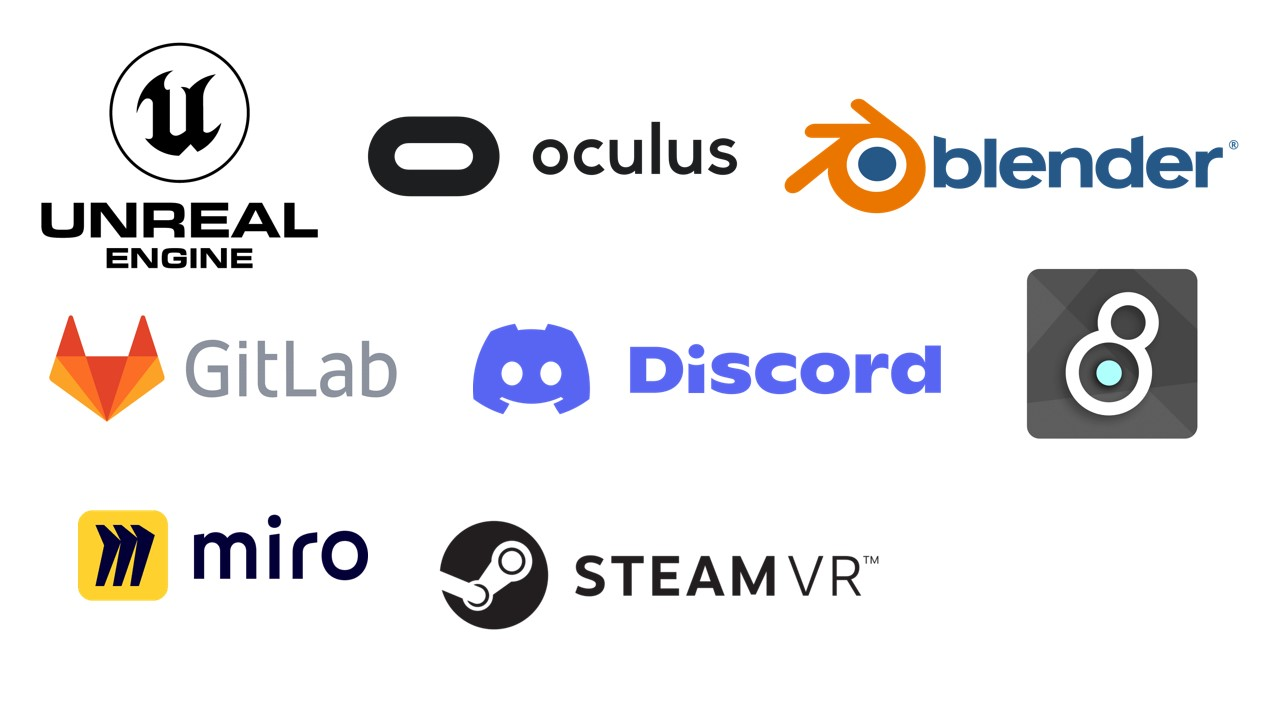
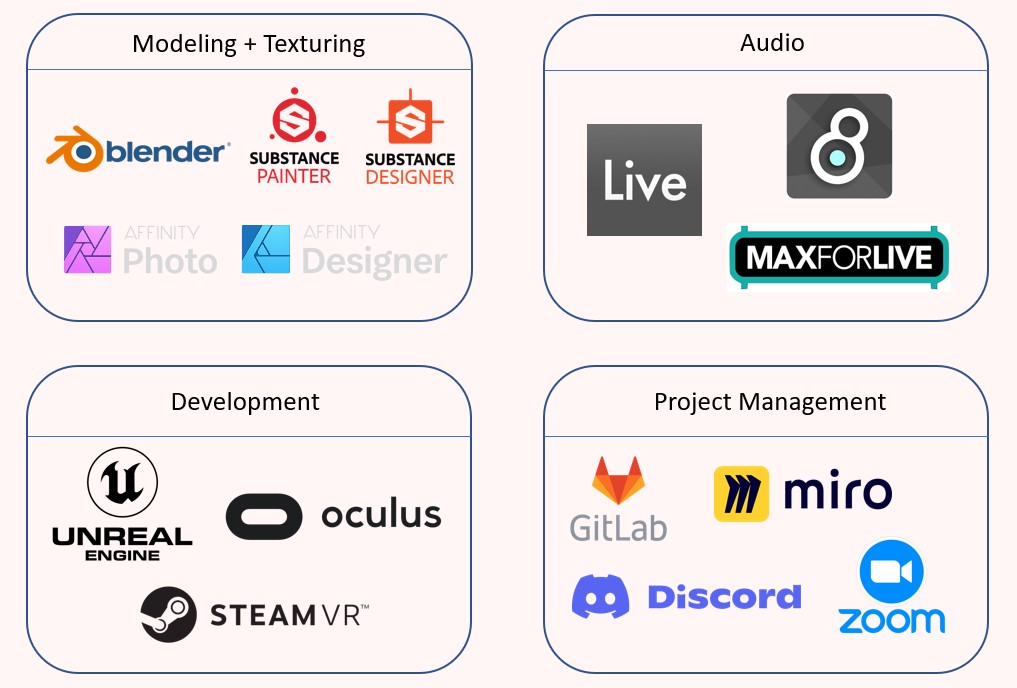
added information for website

diff --git a/content/ss21/master/m2-something-unreal/_tech_stack.md b/content/ss21/master/m2-something-unreal/_tech_stack.md
@@ -6,42 +6,55 @@ weight = 3
 {{<image src="tech-stack.jpg" alt="tech stack">}}
 
 {{<section title="Development">}}
-* Unreal Engine 4
-* Oculus
-* SteamVR
+* <strong>Unreal Engine 4</strong><br>
+Unreal Engine 4 was our main tool.<br> We built our project and put all small parts together as one.
+* <strong>Oculus</strong><br>
+We developed and tested our game with the Oculus Quest, we also used Oculus Link to link the Quest to the PC.
+* <strong>SteamVR</strong><br>
+We were able to play Something Unreal on the Quest via an Unreal plugin using SteamVR.
 {{</section>}}
 
 {{<section title="Hardware">}}
-* Oculus Quest
+* <strong>Oculus Quest</strong><br>
+Three of us used the VR-Headset from Oculus, the Oculus Quest 1.
+* <strong>HTC Vive VR</strong><br>
+The other two used the HTC Vive VR-Headset.
 {{</section>}}
 
 {{<section title="Modeling">}}
-* Blender
+* <strong>Blender</strong><br>
+Blender is a 3D-Computer-Graphics-Software and was used to create almost all the assets for our project.
 {{</section>}}
 
 {{<section title="Texturing">}}
-* Affinity Photo
-* Affinity Designer
-* Substance Designer
-* Substance Painter
+* <strong>Affinity Photo & Affinity Designer</strong><br>
+Affinity Photo was used for simple manipulation of textures whereas Affinity Designer was our tool of choice for creating graphical UI elements for the game.
+* <strong>Substance Designer</strong><br>
+When it came to creating procedural textures for materials and postprocessing effects we went with Substance Designer.
+* <strong>Substance Painter</strong><br>
+Substance Painter was essential in 3D texturing our custom-made assets.
 {{</section>}}
 
 {{<section title="Audio">}}
-* Ableton Live
-* MaxMSP
-* Max4Live
+* <strong>Ableton Live</strong><br>
+Live was our main tool for composing the game score as well as creating the MIDI files that are used to drive rhythmic gameplay.
+* <strong>MaxMSP & Max4Live</strong><br>
+We used Max to build a translation layer that would convert musical cues to usable gampeplay events. The tight integration of Max into Live via Max4Live made it easy to do quick iterations of the gameplay.
 {{</section>}}
 
 {{<section title="Communication">}}
-* Discord
-* ZOOM
+* <strong>Discord</strong><br>
+Via Discord we kept very close contact as a team and exchanged information almost daily via chat.
+* <strong>ZOOM</strong><br>
+We used ZOOM to meeting our  supervisor Prof. Dr.-Ing. David Strippgen every two weeks. We discussed our current status and talked about how to proceed.
 {{</section>}}
 
 {{<section title="Version Control">}}
-* HTW GitLab
+* <strong>HTW GitLab</strong><br>
+We used the HTW GitLab for our version control of our software project. As well as for coordination, sharing and collaboration in our Team.
 {{</section>}}
 
 {{<section title="Other">}}
-* Kanban
-* Miro
+* <strong>Miro</strong><br>
+In Miro, we quickly shared our thoughts and discussed the design of our project and assets.
 {{</section>}}

diff --git a/content/ss21/master/m2-something-unreal/_index.md b/content/ss21/master/m2-something-unreal/_index.md
@@ -4,7 +4,7 @@ project_id = "M2"
 
 # Properties for displaying the project in the project list
 card_image = "project_image.png"
-card_description = "Lorem Ipsum is a breath-taking and audio visual VR experience in which the player finds himself in a bloodstream. Besides red and white blood cells, there are also corona viruses in the blood that need to be smashed. By smashing the viruses, the music playing in the background is supported with sounds."
+card_description = "Something Unreal is a breathtaking and audiovisual VR experience in which the player finds himself in a bloodstream. In addition to red and white blood cells, there are also coronaviruses in the blood that need to be smashed. By smashing the viruses, the music running in the background is supported with sounds. But watch out! The player should beware of the mean fatty tissue, which tries to influence the player's vision."
 
 # These properties may be removed if you don't need them
 demo_link = "lorem ipsum"
@@ -14,6 +14,8 @@ team = ["Joerdis Liermann", "Ralf Strecker", "Till Falkenberg", "Tony Dat Nguyen
 supervisor = "Prof. Dr.-Ing. David Strippgen"
 +++
 
-Lorems ipsum dolor sit amet, consetetur sadipscing elitr, sed diam nonumy eirmod tempor invidunt ut labore et dolore magna aliquyam erat, sed diam voluptua. At vero eos et accusam et justo duo dolores et ea rebum. Stet clita kasd gubergren, no sea takimata sanctus est Lorem ipsum dolor sit amet. Lorem ipsum dolor sit amet, consetetur sadipscing elitr, sed diam nonumy eirmod tempor invidunt ut labore et dolore magna aliquyam erat, sed diam voluptua. At vero eos et accusam et justo duo dolores et ea rebum. Stet clita kasd gubergren, no sea takimata sanctus est Lorem ipsum dolor sit amet. Lorem ipsum dolor sit amet, consetetur sadipscing elitr, sed diam nonumy eirmod tempor invidunt ut labore et dolore magna aliquyam erat, sed diam voluptua. At vero eos et accusam et justo duo dolores et ea rebum. Stet clita kasd gubergren, no sea takimata sanctus est Lorem ipsum dolor sit amet. Lorem ipsum dolor sit amet, consetetur sadipscing elitr, sed diam nonumy eirmod tempor invidunt ut labore et dolore magna aliquyam erat, sed diam voluptua. At vero eos et accusam et justo duo dolores et ea rebum. Stet clita kasd gubergren, no sea takimata sanctus est Lorem ipsum dolor sit amet.
+{{<mediathek id="<our trailer comes in here" title="Our presentation">}}
 
-{{<mediathek id="d6cfec77a750283c5418249b2780f2d3">}}
+{{<section title="Our goal">}}
+Our goal for the project was to create an audio visual experience that can be experienced and played with a VR headset. We used the strengths of the Unreal Engine 4 and combined our skills within the team to create <strong>Something Unreal</strong>.
+{{</section>}}

diff --git a/content/ss21/master/m2-something-unreal/_team.md b/content/ss21/master/m2-something-unreal/_team.md
@@ -4,13 +4,15 @@ weight = 5
 +++
 
 {{<section title="The Team">}}
-Lorem ipsum dolor sit amet, consetetur sadipscing elitr, sed diam nonumy eirmod tempor invidunt ut labore et dolore magna aliquyam erat, sed diam voluptua. At vero eos et accusam et justo duo dolores et ea rebum. Stet clita kasd gubergren, no sea takimata sanctus est Lorem ipsum dolor sit amet. Lorem ipsum dolor sit amet, consetetur sadipscing elitr, sed diam nonumy eirmod tempor invidunt ut labore et dolore magna aliquyam erat, sed diam voluptua. At vero eos et accusam et justo duo dolores et ea rebum. Stet clita kasd gubergren, no sea takimata sanctus est Lorem ipsum dolor sit amet.
+We are a team of various personalities, ages, experiences and knowledge. We all came together to work on the project <strong>Something Unreal</strong>. Despite diversity, there is one thing that unites us all - our love for video games and new technologies.<br><br>
+At the beginning, everyone shared their preferences on what they would like to contribute to the project. Some wanted to gain new experiences, while others wanted to do what they are good at. One of our significant strengths was communication and motivation. We met weekly online via Discord and Zoom and shared our current status with the team.<br><br>
+Jördis was responsible for the particle system. Till took over the creation of textures. Dominic built various assets, animated the hands and took care of this website. Tony was responsible for programming and Ralf took over the role as our team leader, sound designer, programmer and put everything together.
 {{</section >}}
 
 {{<gallery>}}
-{{<team-member image="dominic_engel.jpg" name="Joerdis Liermann">}}
-{{<team-member image="dominic_engel.jpg" name="Ralf Strecker">}}
-{{<team-member image="dominic_engel.jpg" name="Till Falkenberg">}}
-{{<team-member image="dominic_engel.jpg" name="Tony Dat Nguyen Tien">}}
+{{<team-member image="joerdis_liermann.jpg" name="Jördis Liermann">}}
+{{<team-member image="ralf_strecker.jpg" name="Ralf Strecker">}}
+{{<team-member image="till_falkenberg.jpg" name="Till Falkenberg">}}
+{{<team-member image="tony.jpg" name="Tony Dat Nguyen Tien">}}
 {{<team-member image="dominic_engel.jpg" name="Dominic Engel">}}
 {{</gallery>}}

diff --git a/content/ss21/master/m2-something-unreal/_future.md b/content/ss21/master/m2-something-unreal/_future.md
@@ -2,3 +2,17 @@
 title = "Future"
 weight = 4
 +++
+
+{{<section title="Many ideas, too little time">}}
+We had many ideas for the creation of new levels and features for <strong>Something Unreal</strong>. Unfortunately, we were only able to put a very small number of these ideas into practice in the short time available.
+{{</section>}}
+
+{{<section title="Extension possibilities of Something Unreal">}}
+*  Unlimited number of further levels e.g. a space level or city level
+*  Inclusion of a level editor so that the players themselves can determine the music in the levels
+*  Expansion with boss fights
+{{</section>}}
+
+{{<section title="Bug fixes and improvements">}}
+Performance improvements, e.g. through low poly meshes (partly already implemented)
+{{</section>}}

diff --git a/content/ss21/master/m2-something-unreal/_process.md b/content/ss21/master/m2-something-unreal/_process.md
@@ -2,3 +2,23 @@
 title = "Process"
 weight = 2
 +++
+
+{{<section title="First things first">}}
+{{</section>}}
+
+{{<section title="Assets creation (a selection)">}}
+
+{{<image src="virus.jpg">}}
+{{<image src="white_cell.jpg">}}
+{{<image src="blood_cell.jpg">}}
+{{<image src="fatty_tissue.jpg">}}
+{{<image src="pill.jpg">}}
+{{<image src="artery_whole.jpg">}}
+
+{{</section>}}
+
+{{<section title="Music composing">}}
+{{</section>}}
+
+{{<section title="Development Process">}}
+{{</section>}}

diff --git a/content/ss21/master/m2-something-unreal/_features.md b/content/ss21/master/m2-something-unreal/_features.md
@@ -2,3 +2,12 @@
 title = "Features"
 weight = 1
 +++
+
+{{<section title="Smashing virus">}}
+{{</section>}}
+
+{{<section title="Evading fatty tissues">}}
+{{</section>}}
+
+{{<section title="Taking pills">}}
+{{</section>}}
